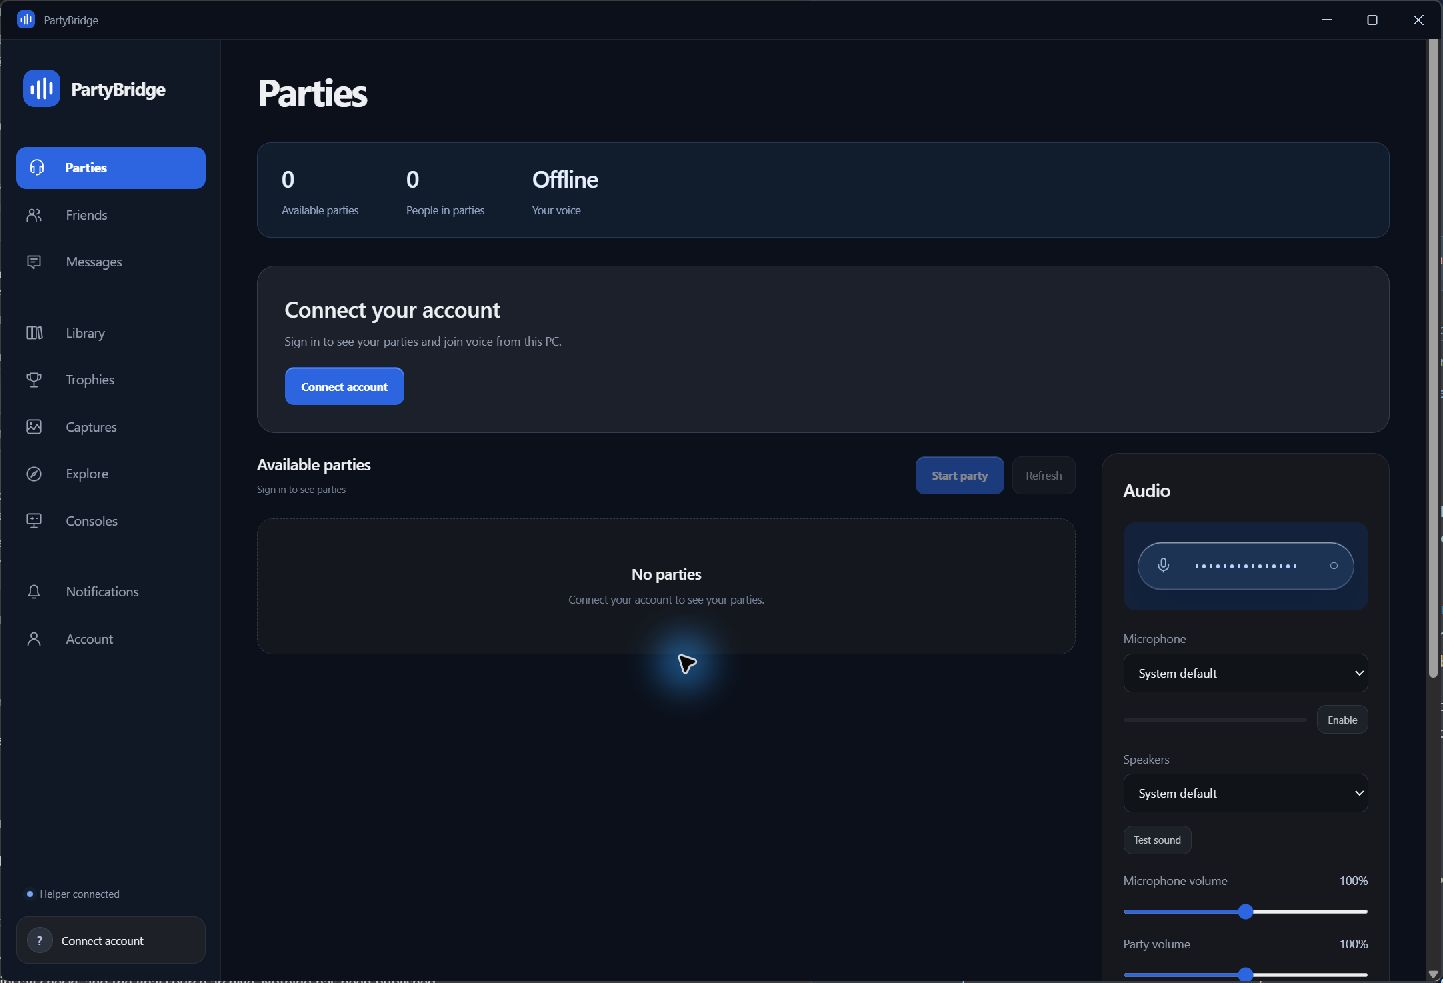
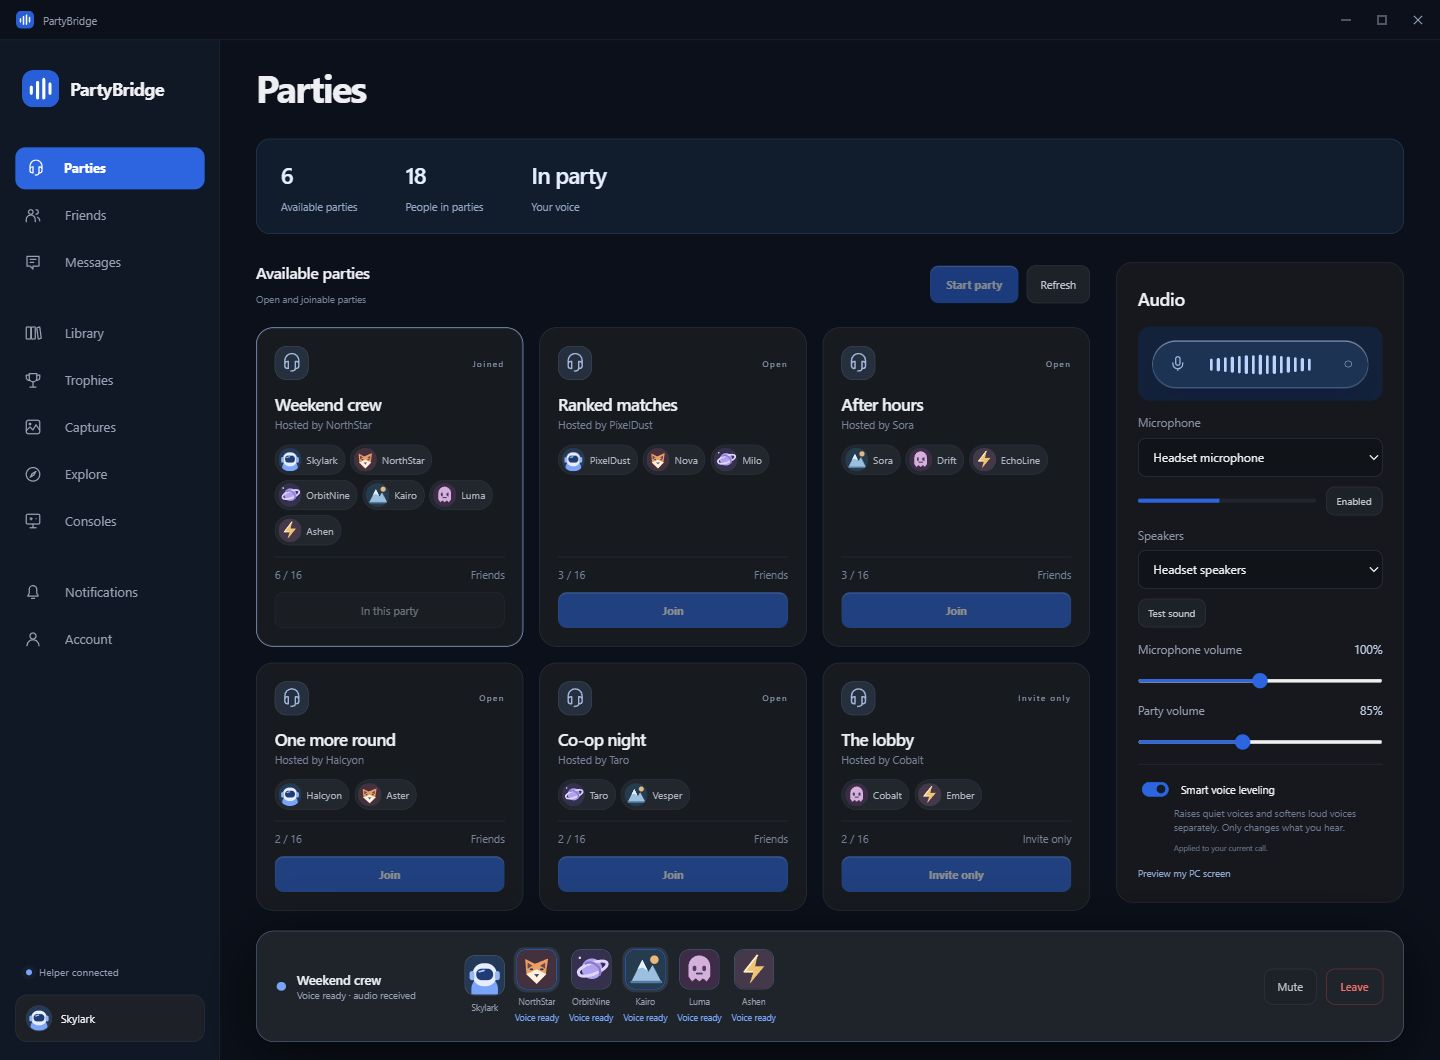
Replace README image with populated party demo
Show a six-person voice party, speaking indicators, party discovery and audio controls using fictional profiles. Add a local fixture for regenerating the cursor-free image.

diff --git a/docs/DEMO.md b/docs/DEMO.md
@@ -1,0 +1,15 @@
+# README demo
+
+The README image uses the app's UI renderer with fictional profiles, parties, voice readiness and audio levels. The avatars are original SVG illustrations generated by the fixture. No Sony login, real party, microphone or recording is used.
+
+Run the local fixture:
+
+```powershell
+node scripts/readme-demo.mjs
+```
+
+Open the printed localhost URL. The fixture serves the application styles and UI modules, substitutes a guarded demo bootstrap, and provides local avatar and volume responses. It rejects mutations and contains no upstream API client.
+
+The page is a fixed 1440 by 1060 documentation canvas. Its layout spacing is compacted for the image; production application files are not changed. Wait for the profile images and volume controls to load, then capture the full page through the browser's page screenshot facility. This excludes the system cursor and surrounding desktop.
+
+Save the image as `docs/assets/partybridge.png`. Keep the README caption identifying the fictional demo. Do not use a signed-in account or capture a real party to regenerate this asset.

diff --git a/README.md b/README.md
@@ -20,7 +20,9 @@
   <a href="CONTRIBUTING.md">Contributing</a>
 </p>
 
-![PartyBridge desktop app before sign-in, showing party navigation and audio controls](docs/assets/partybridge.png)
+![PartyBridge demo showing a six-person voice party, speaking indicators, party discovery and smart voice leveling](docs/assets/partybridge.png)
+
+<p align="center"><sub>Demo with fictional profiles and party activity.</sub></p>
 
 PartyBridge is an unofficial desktop client for PlayStation parties. Its voice helper runs in the background, and packaged builds include the runtimes they need. You can open the app directly without a browser, terminal or separate Node.js installation.
 
